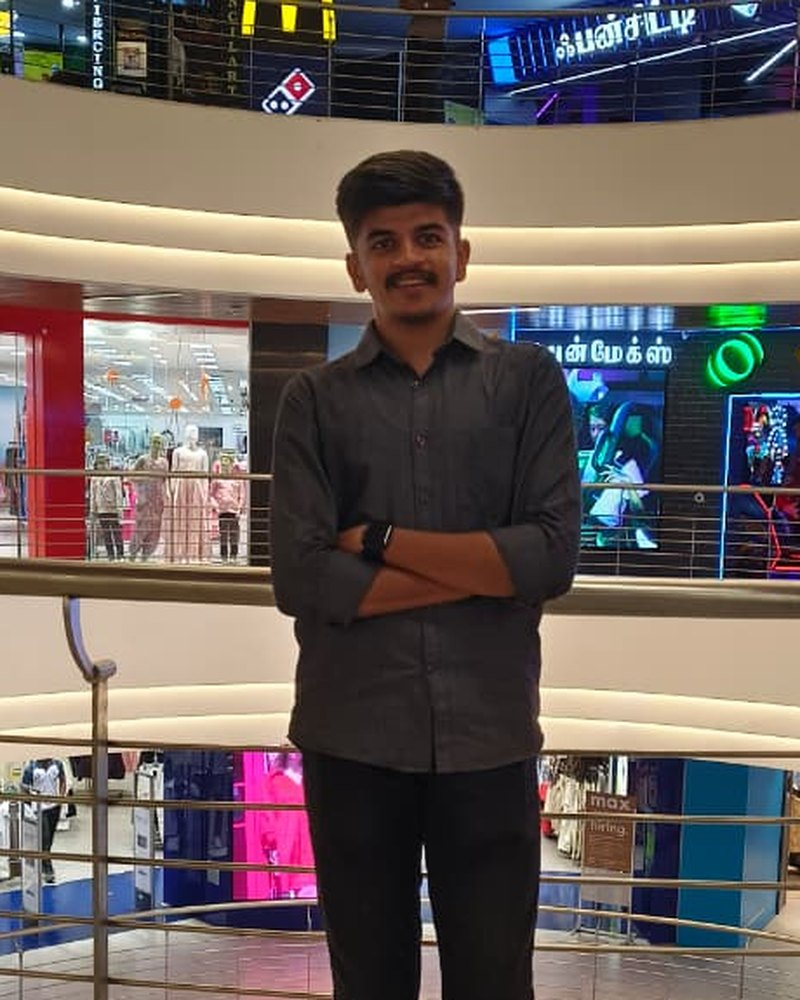
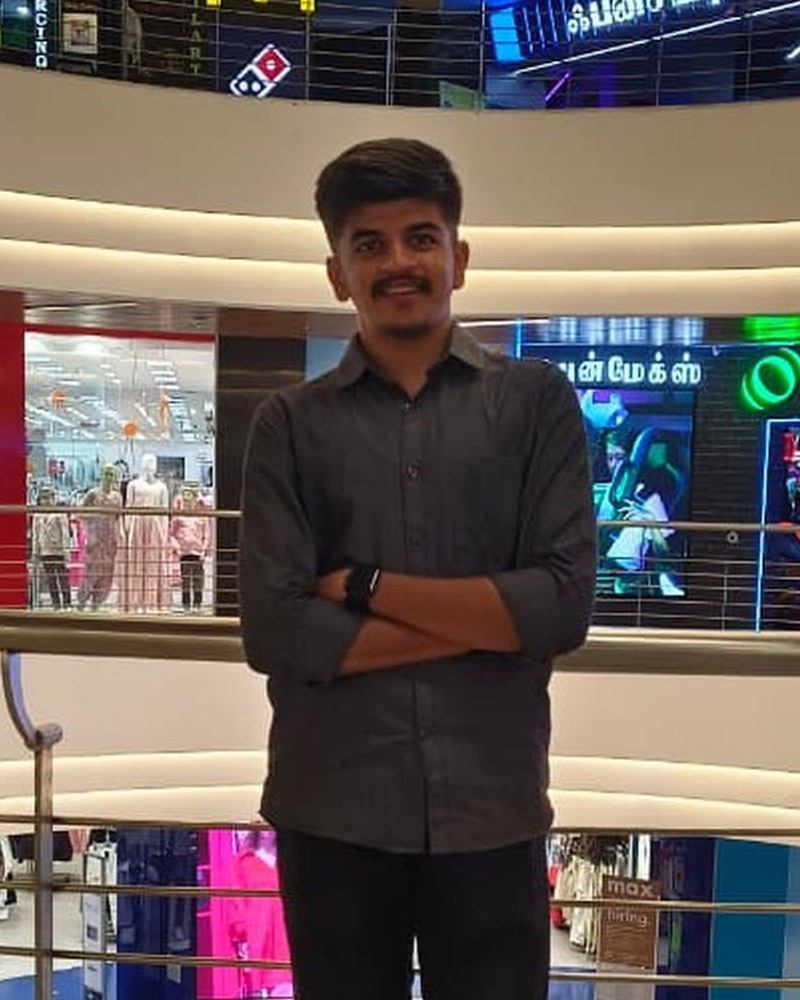
Team heading: AeroSense

diff --git a/components.html b/components.html
@@ -40,7 +40,7 @@
   <link rel="preconnect" href="https://fonts.googleapis.com">
   <link rel="preconnect" href="https://fonts.gstatic.com" crossorigin>
   <link href="https://fonts.googleapis.com/css2?family=Azeret+Mono:wght@400;500;600&family=Bricolage+Grotesque:opsz,wght@12..96,200..800&family=Instrument+Sans:wght@400..700&display=swap" rel="stylesheet">
-  <link rel="stylesheet" href="styles.css?v=680942">
+  <link rel="stylesheet" href="styles.css?v=684809">
 </head>
 <body>
 <div class="curtain" aria-hidden="true"><svg class="curtain-mark" viewBox="0 -69 521 72" role="img" aria-label="AeroSense"><path d="M19 0L1.4 0L23.8-66L47.4-66L69.8 0L52.2 0L48.5-12.4L22.7-12.4L19 0ZM25.9-23.2L45.3-23.2L36.4-53.4L34.8-53.4L25.9-23.2ZM100.5 1.4L100.5 1.4Q93.9 1.4 88.7-0.4Q83.5-2.1 79.9-5.5Q76.2-8.9 74.3-13.9Q72.4-18.9 72.4-25.4L72.4-25.4Q72.4-31.7 74.3-37Q76.1-42.3 79.6-46.2Q83-50 88.1-52.1Q93.1-54.2 99.4-54.2L99.4-54.2Q105.8-54.2 110.7-52.2Q115.5-50.1 118.7-46.1Q121.8-42.1 123.3-36.4Q124.8-30.6 124.3-23.2L124.3-23.2L87.9-22.9Q88.4-16.8 91.4-13.8L91.4-13.8Q94.9-10.1 100.4-10.1L100.4-10.1Q103.1-10.1 104.9-10.9Q106.7-11.6 107.9-12.8Q109-13.9 109.7-15.3Q110.3-16.7 110.7-18L110.7-18L124.7-15Q123.9-11.3 122.2-8.3Q120.4-5.3 117.5-3.1Q114.5-0.9 110.4 0.3Q106.2 1.4 100.5 1.4ZM88.3-31.3L88.3-31.3L109.6-31.5Q109.6-34 108.8-35.9L108.8-35.9Q107.5-39 105-40.5Q102.5-41.9 99.6-41.9L99.6-41.9Q96.1-41.9 93.5-40Q90.8-38.1 89.3-34.5L89.3-34.5Q88.7-33.1 88.3-31.3ZM148.3 0L132.1 0L132.1-52.8L145.3-52.8L145.6-34.9L147.6-34.9Q148.3-41.9 150.3-46.1Q152.2-50.2 155.9-52.1Q159.5-54 164.9-54L164.9-54Q165.7-54 166.7-54.0Q167.7-53.9 169-53.7L169-53.7L168.4-36.5Q166.8-37.3 165.0-37.6Q163.1-37.8 161.7-37.8L161.7-37.8Q157.8-37.8 155.0-36.3Q152.1-34.8 150.5-31.7Q148.8-28.6 148.3-23.9L148.3-23.9L148.3 0ZM199 1.4L199 1.4Q191 1.4 184.8-1.7Q178.7-4.8 175.2-11Q171.7-17.2 171.7-26.5L171.7-26.5Q171.7-35.8 175.2-42.0Q178.7-48.1 184.9-51.2Q191.1-54.2 199.1-54.2L199.1-54.2Q207.1-54.2 213.3-51.1Q219.5-48 223-41.9Q226.5-35.7 226.5-26.4L226.5-26.4Q226.5-16.9 222.9-10.7Q219.3-4.5 213.1-1.6Q206.8 1.4 199 1.4ZM199.5-10.3L199.5-10.3Q203.1-10.3 205.5-12.0Q207.9-13.6 209.1-17Q210.3-20.4 210.3-25.4L210.3-25.4Q210.3-30.7 209-34.4Q207.7-38 205.2-40.0Q202.6-41.9 198.6-41.9L198.6-41.9Q195.2-41.9 192.8-40.3Q190.3-38.6 189.1-35.2Q187.9-31.8 187.9-26.7L187.9-26.7Q187.9-18.5 190.9-14.4Q194-10.3 199.5-10.3ZM260.8 1.4L260.8 1.4Q254.4 1.4 249.2 0.2Q244-1 240.2-3.5Q236.4-5.9 234.2-9.7Q232-13.5 231.6-18.5L231.6-18.5L245.7-23.2Q246-19 248.1-16.2Q250.2-13.4 253.8-12.1Q257.3-10.7 261.7-10.7L261.7-10.7Q265.9-10.7 268.8-11.8Q271.6-12.8 273.1-14.5Q274.5-16.1 274.5-18L274.5-18Q274.5-20.2 272.6-21.7Q270.7-23.1 267.4-24.2Q264.1-25.2 259.7-26.2L259.7-26.2Q254.7-27.4 249.9-28.8Q245.1-30.2 241.2-32.5Q237.3-34.7 235.0-38.3Q232.8-41.8 232.8-47.2L232.8-47.2Q232.8-53.3 235.9-57.8Q239-62.3 245-64.9Q251-67.4 259.8-67.4L259.8-67.4Q268.5-67.4 274.6-64.9Q280.7-62.4 284-58.0Q287.3-53.5 287.6-47.6L287.6-47.6L273.2-43.5Q273.2-46.4 272.3-48.6Q271.3-50.8 269.6-52.3Q267.9-53.7 265.4-54.5Q262.9-55.2 259.7-55.2L259.7-55.2Q255.9-55.2 253.3-54.3Q250.6-53.4 249.3-52.0Q248-50.5 248-48.6L248-48.6Q248-46.2 250.0-44.7Q252.1-43.1 255.6-42.1Q259.2-41 263.5-40L263.5-40Q267.8-39.1 272.4-37.8Q277-36.4 281-34.2Q285-32 287.4-28.3Q289.9-24.5 289.9-18.8L289.9-18.8Q289.9-12.7 286.6-8.2Q283.4-3.6 276.9-1.1Q270.4 1.4 260.8 1.4ZM322.8 1.4L322.8 1.4Q316.2 1.4 311-0.4Q305.8-2.1 302.1-5.5Q298.5-8.9 296.6-13.9Q294.7-18.9 294.7-25.4L294.7-25.4Q294.7-31.7 296.6-37Q298.4-42.3 301.9-46.2Q305.3-50 310.4-52.1Q315.4-54.2 321.7-54.2L321.7-54.2Q328.1-54.2 332.9-52.2Q337.8-50.1 340.9-46.1Q344.1-42.1 345.6-36.4Q347.1-30.6 346.6-23.2L346.6-23.2L310.2-22.9Q310.7-16.8 313.7-13.8L313.7-13.8Q317.2-10.1 322.7-10.1L322.7-10.1Q325.4-10.1 327.2-10.9Q329-11.6 330.1-12.8Q331.3-13.9 331.9-15.3Q332.6-16.7 333-18L333-18L347-15Q346.2-11.3 344.4-8.3Q342.7-5.3 339.8-3.1Q336.8-0.9 332.6 0.3Q328.5 1.4 322.8 1.4ZM310.6-31.3L310.6-31.3L331.9-31.5Q331.9-34 331.1-35.9L331.1-35.9Q329.8-39 327.3-40.5Q324.8-41.9 321.9-41.9L321.9-41.9Q318.4-41.9 315.8-40Q313.1-38.1 311.6-34.5L311.6-34.5Q311-33.1 310.6-31.3ZM370.5 0L354.4 0L354.4-52.8L367.4-52.8L367.6-37.3L369.6-37.3Q370.9-42.9 373.3-46.7Q375.7-50.5 379.4-52.4Q383.1-54.2 388.1-54.2L388.1-54.2Q397.4-54.2 402.3-47.7Q407.1-41.2 407.1-27L407.1-27L407.1 0L390.9 0L390.9-25.2Q390.9-33.4 388.6-37.1Q386.2-40.9 381.6-40.9L381.6-40.9Q377.8-40.9 375.3-38.6Q372.9-36.3 371.7-32.5Q370.5-28.7 370.5-24L370.5-24L370.5 0ZM438.3 1.4L438.3 1.4Q433 1.4 428.7 0.5Q424.4-0.5 421.2-2.3Q418-4.1 415.9-6.7Q413.9-9.2 413.1-12.3L413.1-12.3L425.1-17.6Q425.8-15.9 427.6-14.2Q429.3-12.4 432.3-11.3Q435.2-10.2 439.4-10.2L439.4-10.2Q443.4-10.2 445.6-11.4Q447.9-12.5 447.9-14.7L447.9-14.7Q447.9-16.3 446.6-17.3Q445.4-18.2 442.9-18.9Q440.4-19.7 436.7-20.4L436.7-20.4Q432.9-21.2 429-22.3Q425.1-23.3 421.7-25.2Q418.3-27 416.3-30.1Q414.2-33.1 414.2-37.8L414.2-37.8Q414.2-42.7 416.8-46.4Q419.4-50 424.6-52.1Q429.7-54.2 437.1-54.2L437.1-54.2Q443.7-54.2 448.7-52.5Q453.7-50.8 457.1-47.7Q460.4-44.5 461.7-40.1L461.7-40.1L448.8-35.5Q448.3-37.7 446.8-39.3Q445.2-40.9 442.9-41.8Q440.5-42.6 437.3-42.6L437.3-42.6Q433.4-42.6 431.3-41.4Q429.1-40.2 429.1-38.2L429.1-38.2Q429.1-36.6 430.6-35.6Q432-34.5 434.7-33.8Q437.4-33.1 441.1-32.3L441.1-32.3Q445-31.5 448.9-30.5Q452.7-29.4 455.9-27.7Q459-25.9 460.9-23.1Q462.7-20.2 462.7-15.7L462.7-15.7Q462.7-10.4 459.9-6.6Q457.1-2.7 451.6-0.7Q446.2 1.4 438.3 1.4ZM494.7 1.4L494.7 1.4Q488.1 1.4 482.9-0.4Q477.7-2.1 474.0-5.5Q470.4-8.9 468.5-13.9Q466.6-18.9 466.6-25.4L466.6-25.4Q466.6-31.7 468.4-37Q470.3-42.3 473.8-46.2Q477.2-50 482.3-52.1Q487.3-54.2 493.6-54.2L493.6-54.2Q500-54.2 504.8-52.2Q509.7-50.1 512.9-46.1Q516-42.1 517.5-36.4Q519-30.6 518.5-23.2L518.5-23.2L482.1-22.9Q482.6-16.8 485.6-13.8L485.6-13.8Q489.1-10.1 494.6-10.1L494.6-10.1Q497.3-10.1 499.1-10.9Q500.9-11.6 502.0-12.8Q503.2-13.9 503.8-15.3Q504.5-16.7 504.9-18L504.9-18L518.9-15Q518.1-11.3 516.4-8.3Q514.6-5.3 511.6-3.1Q508.7-0.9 504.5 0.3Q500.4 1.4 494.7 1.4ZM482.5-31.3L482.5-31.3L503.8-31.5Q503.8-34 503-35.9L503-35.9Q501.7-39 499.2-40.5Q496.7-41.9 493.8-41.9L493.8-41.9Q490.3-41.9 487.6-40Q485-38.1 483.5-34.5L483.5-34.5Q482.9-33.1 482.5-31.3Z"/></svg></div>
@@ -266,6 +266,6 @@
   </div>
 </footer>
 
-<script src="site.js?v=680942" defer></script>
+<script src="site.js?v=684809" defer></script>
 </body>
 </html>

diff --git a/index.html b/index.html
@@ -44,7 +44,7 @@
   <link rel="preconnect" href="https://fonts.googleapis.com">
   <link rel="preconnect" href="https://fonts.gstatic.com" crossorigin>
   <link href="https://fonts.googleapis.com/css2?family=Azeret+Mono:wght@400;500;600&family=Bricolage+Grotesque:opsz,wght@12..96,200..800&family=Instrument+Sans:wght@400..700&display=swap" rel="stylesheet">
-  <link rel="stylesheet" href="styles.css?v=680942">
+  <link rel="stylesheet" href="styles.css?v=684809">
   <script type="importmap">
   { "imports": {
       "three": "https://cdn.jsdelivr.net/npm/three@0.169.0/build/three.module.js",
@@ -195,7 +195,7 @@
   <div class="wrap">
     <div class="section-head">
       <span class="eyebrow">06 · crew</span>
-      <h2 class="split-words">The people behind Nostromo.</h2>
+      <h2 class="split-words">The people behind AeroSense.</h2>
       <p class="lede">Hardware, firmware, ML and design, all done by the same small team.</p>
     </div>
     <!-- EDIT: for each person, set the name, "Department · Year", project role and links.
@@ -227,7 +227,7 @@
         </div>
       </article>
       <article class="person reveal">
-        <div class="photo"><img src="img/team/member4.jpg" width="800" height="1000" alt="Sarveshvar S" loading="lazy"></div>
+        <div class="photo"><img src="img/team/member4.jpg?v=684809" width="800" height="1000" alt="Sarveshvar S" loading="lazy"></div>
         <div class="who">
           <h3>Sarveshvar S</h3>
           <div class="dept">III Year · B.Tech IT</div>
@@ -272,9 +272,9 @@
   </div>
 </footer>
 
-<script src="main.js?v=680942" defer></script>
-<script src="site.js?v=680942" defer></script>
-<script type="module" src="device3d.js?v=680942"></script>
-<script type="module" src="showcase.js?v=680942"></script>
+<script src="main.js?v=684809" defer></script>
+<script src="site.js?v=684809" defer></script>
+<script type="module" src="device3d.js?v=684809"></script>
+<script type="module" src="showcase.js?v=684809"></script>
 </body>
 </html>

diff --git a/styles.css b/styles.css
@@ -914,10 +914,11 @@ body:has(.intro .moon)::before { display: none; }           /* on the home page 
   background: url("img/moon.webp") right top / contain no-repeat; opacity: 0; transition: opacity .8s ease;
 }
 .moon-ready .intro .moon { opacity: .85; }
-.showcase { position: absolute; inset: 0; z-index: 2; pointer-events: none;
+/* opacity + transform only (both run on the GPU compositor). A CSS blur over the live 3D canvas
+   had to be recomputed every frame and made the scroll into the model stutter. */
+.showcase { position: absolute; inset: 0; z-index: 2; pointer-events: none; will-change: opacity, transform;
   opacity: calc(var(--sin, 0) * (1 - var(--sout, 0)));
-  filter: blur(calc((1 - var(--sin, 0)) * 12px + var(--sout, 0) * 12px));
-  transform: translateY(calc((1 - var(--sin, 0)) * 40px - var(--sout, 0) * 60px)) scale(calc(1 + var(--sout, 0) * .06));
+  transform: translate3d(0, calc((1 - var(--sin, 0)) * 40px - var(--sout, 0) * 60px), 0) scale(calc(0.96 + var(--sin, 0) * .04 + var(--sout, 0) * .06));
 }
 .showcase-title {
   position: absolute; left: 0; right: 0; top: 9%; margin: 0; text-align: center;

diff --git a/device3d.js b/device3d.js
@@ -523,7 +523,12 @@ function whenNear(el, build) {
 /* build the remaining 3D views one at a time while the browser is idle, so they're ready before
    anyone scrolls or jumps to them (a jump to #explore no longer has to build a scene on the spot) */
 function prewarmIdle() {
-  const idle = (fn) => ("requestIdleCallback" in window ? requestIdleCallback(fn, { timeout: 2000 }) : setTimeout(fn, 300));
+  /* only build while the page is still: compiling a scene mid-scroll is what made scrolling hitch */
+  let lastScroll = 0; addEventListener("scroll", () => (lastScroll = performance.now()), { passive: true });
+  const idle = (fn) => {
+    const wait = () => (performance.now() - lastScroll < 900 ? setTimeout(wait, 400) : ("requestIdleCallback" in window ? requestIdleCallback(fn, { timeout: 4000 }) : setTimeout(fn, 300)));
+    wait();
+  };
   const next = () => { const run = prewarm.shift(); if (!run) return; idle(async () => { await run(); setTimeout(next, 250); }); };
   const go = () => (window.__afterCurtain || ((f) => f()))(() => setTimeout(next, 400));
   if (document.readyState === "complete") go();

diff --git a/showcase.js b/showcase.js
@@ -4,7 +4,7 @@
    site.js works out the scroll progress and publishes it as window.__heroProg (0 → 1). */
 import * as THREE from "three";
 import { RoomEnvironment } from "three/addons/environments/RoomEnvironment.js";
-import { buildConceptModel } from "./device3d.js?v=680942";
+import { buildConceptModel } from "./device3d.js?v=684809";
 
 const canvas = document.getElementById("showcase3d");
 
@@ -87,6 +87,13 @@ function init() {
     sweep.position.set(Math.sin(time * 0.55) * 16, 10, 12);
     renderer.render(scene, camera);
   };
+  /* compile the shaders up front (quietly, while the page is idle) so the first frame the model
+     appears in doesn't stall the scroll */
+  const warm = () => {
+    const done = () => { try { renderer.render(scene, camera); } catch (e) {} };
+    if (renderer.compileAsync) renderer.compileAsync(scene, camera).then(done, done); else { renderer.compile(scene, camera); done(); }
+  };
+  if ("requestIdleCallback" in window) requestIdleCallback(warm, { timeout: 1500 }); else setTimeout(warm, 300);
   requestAnimationFrame(frame);
 }
 

diff --git a/aerosense.html b/aerosense.html
@@ -43,7 +43,7 @@
   <link rel="preconnect" href="https://fonts.googleapis.com">
   <link rel="preconnect" href="https://fonts.gstatic.com" crossorigin>
   <link href="https://fonts.googleapis.com/css2?family=Azeret+Mono:wght@400;500;600&family=Bricolage+Grotesque:opsz,wght@12..96,200..800&family=Instrument+Sans:wght@400..700&display=swap" rel="stylesheet">
-  <link rel="stylesheet" href="styles.css?v=680942">
+  <link rel="stylesheet" href="styles.css?v=684809">
   <script type="importmap">
   { "imports": {
       "three": "https://cdn.jsdelivr.net/npm/three@0.169.0/build/three.module.js",
@@ -523,9 +523,9 @@
   </div>
 </footer>
 
-<script src="main.js?v=680942" defer></script>
-<script src="site.js?v=680942" defer></script>
-<script type="module" src="device3d.js?v=680942"></script>
-<script type="module" src="gel3d.js?v=680942"></script>
+<script src="main.js?v=684809" defer></script>
+<script src="site.js?v=684809" defer></script>
+<script type="module" src="device3d.js?v=684809"></script>
+<script type="module" src="gel3d.js?v=684809"></script>
 </body>
 </html>

diff --git a/site.js b/site.js
@@ -486,7 +486,10 @@
       if (introWord) {
         introWord.style.transform = reduce ? "" : `translate3d(0, ${(-pw * 90).toFixed(1)}px, 0) scale(${(1 + pw * 0.1).toFixed(3)})`;
         introWord.style.opacity = (1 - pw).toFixed(3);
-        introWord.style.filter = pw > 0.01 && !reduce ? `blur(${(pw * 6).toFixed(1)}px)` : "";
+        /* blur in whole-pixel steps: re-blurring the giant word on every scroll tick was a big part of the lag */
+        const bl = reduce ? 0 : Math.round(pw * 6);
+        const f = bl ? `blur(${bl}px)` : "";
+        if (introWord.style.filter !== f) introWord.style.filter = f;
       }
       introHero.style.setProperty("--pw", pw.toFixed(3));
       introHero.style.setProperty("--sin", sIn.toFixed(3));
